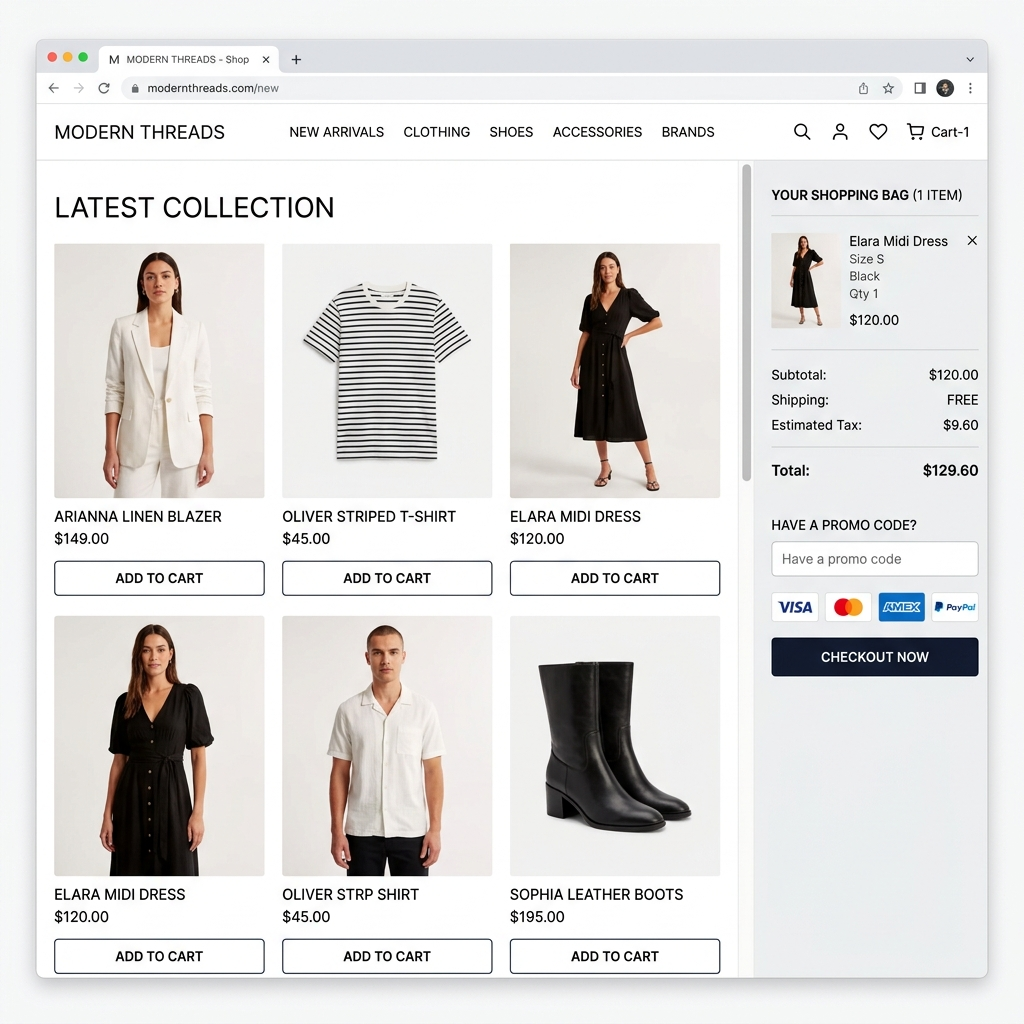
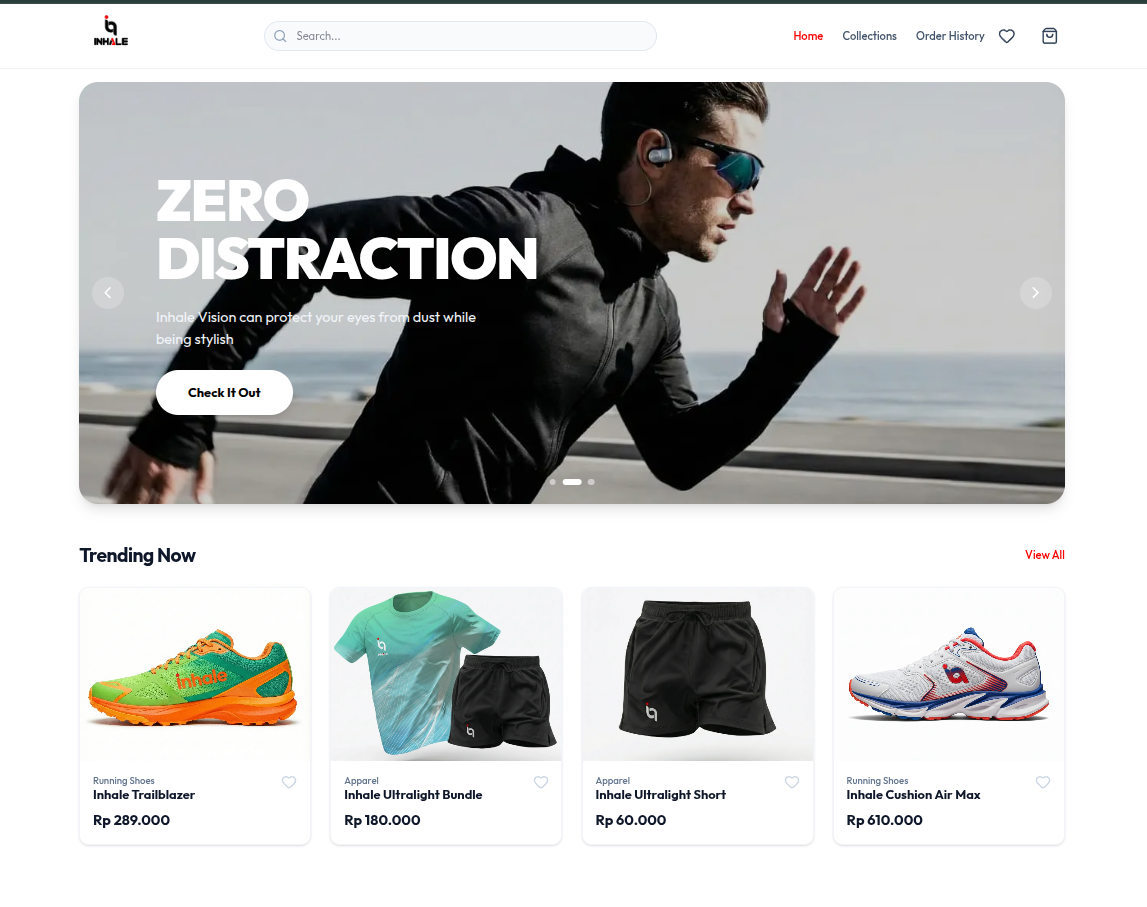
ganti thumbnail

diff --git a/app/components/Projects.tsx b/app/components/Projects.tsx
@@ -76,14 +76,9 @@ export function ProjectCard({
       <div className="zone1-thumbnail">
         <img src={thumbnail} alt={name} className="thumbnail-image" />
         <div className="image-overlay" />
-        
+
         {/* Decorative Chrome Overlay with Dots & Live Demo Button */}
         <div className="card-chrome">
-          <div className="chrome-dots">
-            <span className="chrome-dot chrome-dot-red" />
-            <span className="chrome-dot chrome-dot-yellow" />
-            <span className="chrome-dot chrome-dot-green" />
-          </div>
           <div className="live-demo-button">
             <span>Live Demo</span>
             <FaExternalLinkAlt size={8} className="external-icon" />
@@ -92,11 +87,7 @@ export function ProjectCard({
       </div>
 
       {/* Zone 2 — Info Section (bottom ~45% of card height) */}
-      <div
-        ref={zone2Ref}
-        className="zone2-info"
-        onMouseMove={handleMouseMove}
-      >
+      <div ref={zone2Ref} className="zone2-info" onMouseMove={handleMouseMove}>
         <div
           className="spotlight-overlay"
           style={{
@@ -104,7 +95,7 @@ export function ProjectCard({
             background: `radial-gradient(circle 180px at ${coords.x}px ${coords.y}px, rgba(255, 255, 255, 0.07), transparent 70%)`,
           }}
         />
-        
+
         <div className="info-content">
           <h3 className="project-name">{name}</h3>
           <p className="project-description">{description}</p>
@@ -200,10 +191,6 @@ export function ProjectCard({
           border-radius: 50%;
         }
 
-        .chrome-dot-red { background: #ff5f56; }
-        .chrome-dot-yellow { background: #ffbd2e; }
-        .chrome-dot-green { background: #27c93f; }
-
         .live-demo-button {
           position: absolute;
           top: 12px;
@@ -225,8 +212,8 @@ export function ProjectCard({
         }
 
         .project-card:hover .live-demo-button {
-          background: #00C9A7;
-          border-color: #00C9A7;
+          background: #00c9a7;
+          border-color: #00c9a7;
           color: #000000;
           box-shadow: 0 0 12px rgba(0, 201, 167, 0.4);
         }
@@ -350,7 +337,7 @@ const PROJECT_LIST = [
     ],
     releaseDate: 'November 2025',
     thumbnail: '/mi-techno.png',
-    link: 'https://github.com',
+    link: 'https://github.com/yourfatherisgreen/backup-new-mi-techno',
     category: 'Website',
   },
   {
@@ -395,7 +382,7 @@ const PROJECT_LIST = [
       { icon: <SiTailwindcss />, label: 'TailwindCSS' },
     ],
     releaseDate: 'May 2026',
-    thumbnail: '/portfolio.png',
+    thumbnail: '/portofolio.png',
     link: 'https://muhammadazmi.my.id',
     category: 'Website',
   },
@@ -425,7 +412,7 @@ export default function Projects() {
           gsap.fromTo(
             elements,
             { opacity: 0, scale: 0.8 },
-            { opacity: 1, scale: 1, duration: 0.4, ease: 'back.out(1.2)' }
+            { opacity: 1, scale: 1, duration: 0.4, ease: 'back.out(1.2)' },
           ),
         onLeave: (elements) =>
           gsap.to(elements, { opacity: 0, scale: 0.8, duration: 0.3 }),
@@ -484,7 +471,8 @@ export default function Projects() {
 
       <div ref={containerRef} className="projects-container">
         {PROJECT_LIST.map((project, index) => {
-          const isVisible = activeTab === 'All' || project.category === activeTab;
+          const isVisible =
+            activeTab === 'All' || project.category === activeTab;
           return (
             <div
               key={index}
@@ -520,7 +508,8 @@ export default function Projects() {
           display: flex;
           flex-direction: column;
           align-items: center;
-          font-family: var(--font-geist-sans), ui-sans-serif, system-ui, sans-serif;
+          font-family:
+            var(--font-geist-sans), ui-sans-serif, system-ui, sans-serif;
         }
 
         .section-title-wrap {
@@ -530,7 +519,7 @@ export default function Projects() {
 
         .section-subtitle {
           font-size: 12px;
-          color: #00C9A7;
+          color: #00c9a7;
           text-transform: uppercase;
           letter-spacing: 0.3em;
           font-weight: 700;

diff --git a/app/page.tsx b/app/page.tsx
@@ -40,12 +40,16 @@ export default function Page() {
               my progress
             </p>
             <div className="flex flex-wrap gap-4 mt-12">
-              <button className="px-8 py-4 bg-white text-black font-bold text-sm uppercase tracking-widest hover:bg-slate-200 transition-all duration-300 shadow-xl shadow-white/5 ">
-                See My Works
-              </button>
-              <button className="px-8 py-4 bg-transparent border border-white/20 text-white font-bold text-sm uppercase tracking-widest hover:bg-white/10 transition-all duration-300">
-                Get In Touch
-              </button>
+              <a href="#projects">
+                <button className="px-8 py-4 bg-white text-black font-bold text-sm uppercase tracking-widest hover:bg-slate-200 transition-all duration-300 shadow-xl shadow-white/5 ">
+                  See My Works
+                </button>
+              </a>
+              <a href="#about">
+                <button className="px-8 py-4 bg-transparent border border-white/20 text-white font-bold text-sm uppercase tracking-widest hover:bg-white/10 transition-all duration-300">
+                  Get In Touch
+                </button>
+              </a>
             </div>
           </div>
         </div>
